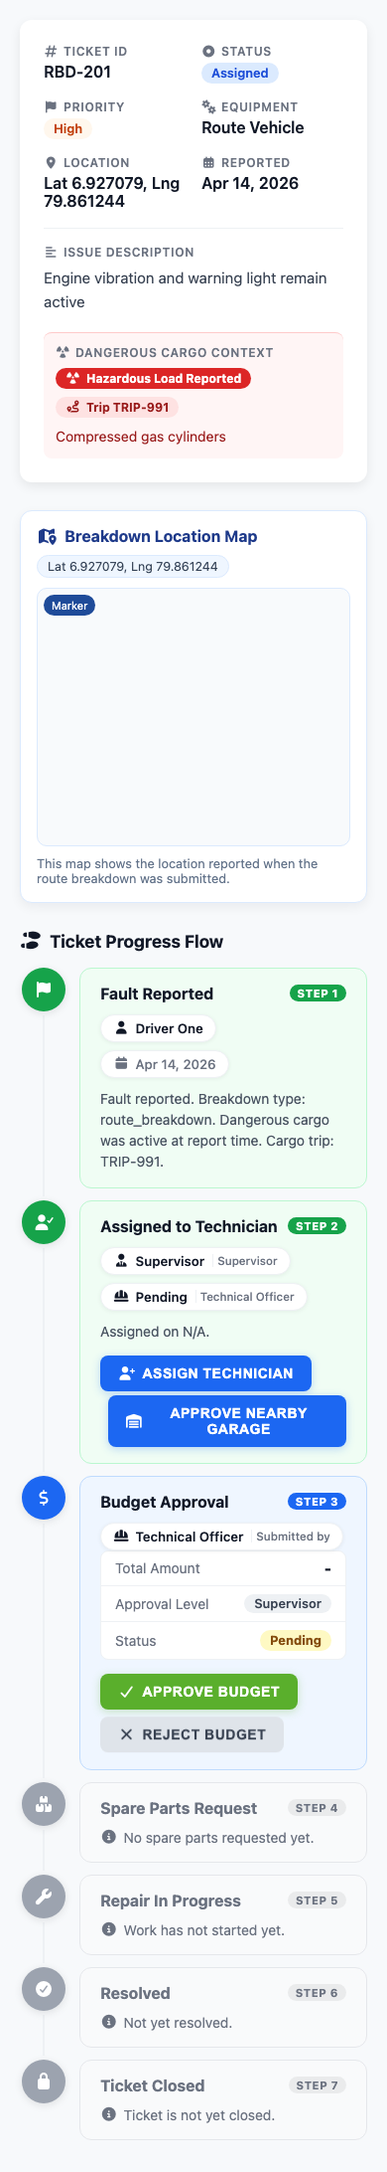
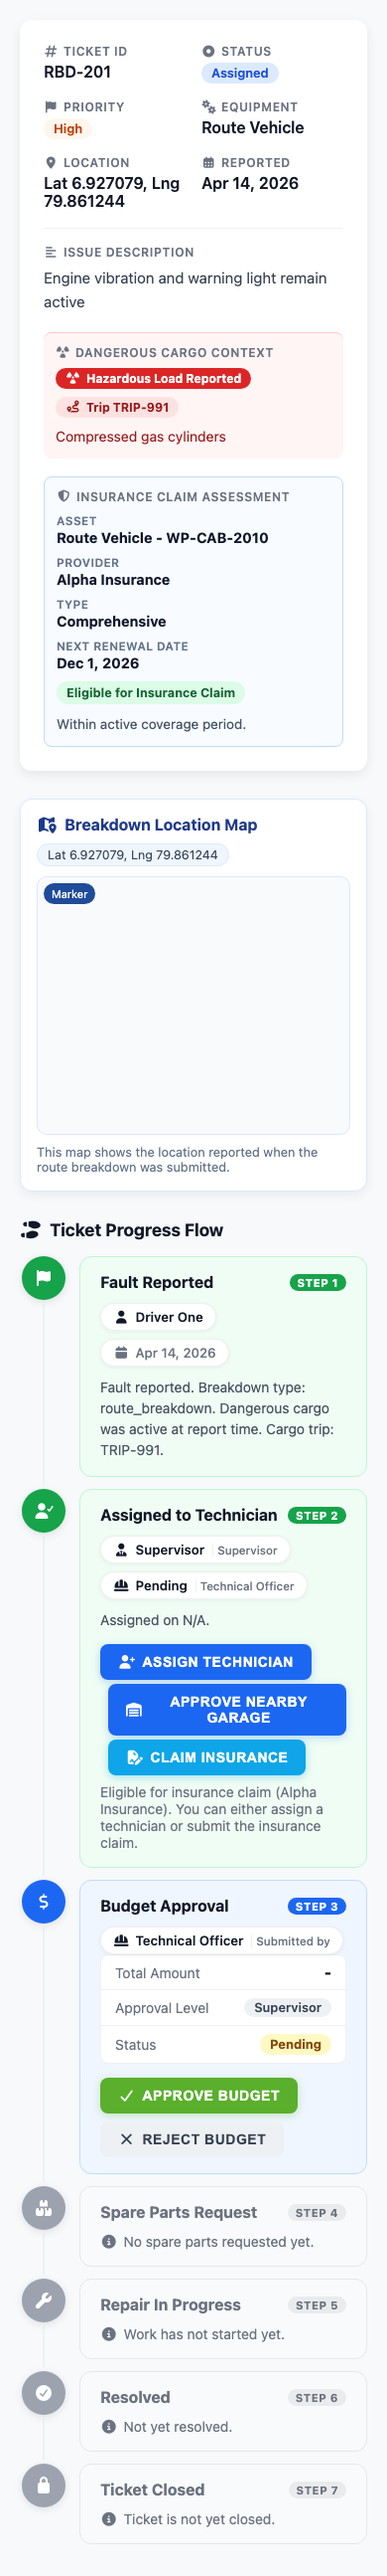
supervisor-tickets: enrich route actions and distance-aware garage approval

diff --git a/pages/dashboard/supervisor/components/page-modals/garage-approval-modal/script.js b/pages/dashboard/supervisor/components/page-modals/garage-approval-modal/script.js
@@ -137,12 +137,14 @@ class SupervisorGarageApprovalModal extends HTMLElement {
     renderMeta() {
         const meta = this.querySelector('#garageApprovalMeta');
         const breakdown = this.currentBreakdown || {};
+        const locationLabel = String(breakdown.breakdown_location || breakdown.location || '').trim();
 
         meta.innerHTML = `
             <div style="background:#f8fafc; border:1px solid #dbeafe; border-radius:8px; padding:12px;">
                 <div><strong>Route Breakdown:</strong> ${breakdown.breakdownId || breakdown.route_breakdown_id || `RBD-${breakdown.id}`}</div>
                 <div><strong>Vehicle:</strong> ${breakdown.identifier || breakdown.number_plate || `Vehicle #${breakdown.vehicle_id || 'N/A'}`}</div>
                 <div><strong>Driver:</strong> ${breakdown.reportedBy || breakdown.driver_name || 'N/A'}</div>
+                ${locationLabel ? `<div><strong>Reported Location:</strong> ${locationLabel}</div>` : ''}
                 ${breakdown.description ? `<div><strong>Description:</strong> ${breakdown.description}</div>` : ''}
             </div>
         `;
@@ -154,9 +156,11 @@ class SupervisorGarageApprovalModal extends HTMLElement {
 
         try {
             const response = await API.get('/garages');
-            this.garages = Array.isArray(response?.data?.garages)
+            const rawGarages = Array.isArray(response?.data?.garages)
                 ? response.data.garages
                 : (Array.isArray(response?.data) ? response.data : []);
+
+            this.garages = this.rankGaragesByDistance(rawGarages, this.getDriverCoordinates());
 
             if (!this.garages.length) {
                 select.innerHTML = '<option value="">No garages available</option>';
@@ -173,7 +177,7 @@ class SupervisorGarageApprovalModal extends HTMLElement {
                 <option value="">Select a garage</option>
                 ${this.garages.map((garage) => `
                     <option value="${garage.id}" ${preselectedId === Number(garage.id) ? 'selected' : ''}>
-                        ${garage.name} - ${garage.address}
+                        ${garage.name} - ${garage.address}${garage.distance_km !== null ? ` (${this.formatDistanceKm(garage.distance_km)} away)` : ''}
                     </option>
                 `).join('')}
             `;
@@ -288,7 +292,10 @@ class SupervisorGarageApprovalModal extends HTMLElement {
                 weight: 2,
             }).addTo(this.map);
 
-            marker.bindPopup(`<strong>${garage.name || 'Garage'}</strong><br>${garage.address || 'Address not available'}`);
+            const distanceLabel = garage.distance_km !== null
+                ? `<br><span style="color:#475569;">Approx. ${this.formatDistanceKm(garage.distance_km)} from breakdown</span>`
+                : '';
+            marker.bindPopup(`<strong>${garage.name || 'Garage'}</strong><br>${garage.address || 'Address not available'}${distanceLabel}`);
             marker.on('click', () => {
                 const select = this.querySelector('#garageApprovalSelect');
                 if (select) {
@@ -322,7 +329,7 @@ class SupervisorGarageApprovalModal extends HTMLElement {
             } else if (!this.garageMarkers.length) {
                 hintEl.textContent = 'No garages with coordinates were found. Use the dropdown to select a garage.';
             } else {
-                hintEl.textContent = 'Click a garage marker or use the dropdown to select a garage for approval.';
+                hintEl.textContent = 'Garages are sorted by distance from the reported breakdown location. Click a marker or use the dropdown to select.';
             }
         }
 
@@ -355,14 +362,112 @@ class SupervisorGarageApprovalModal extends HTMLElement {
 
     getDriverCoordinates() {
         const source = this.currentBreakdown?.raw || this.currentBreakdown || {};
-        const latitude = Number(source.breakdown_latitude);
-        const longitude = Number(source.breakdown_longitude);
+        const directCoordinates = this.toCoordinatePair(source.breakdown_latitude, source.breakdown_longitude)
+            || this.toCoordinatePair(source.latitude, source.longitude)
+            || this.toCoordinatePair(this.currentBreakdown?.breakdown_latitude, this.currentBreakdown?.breakdown_longitude);
+
+        if (directCoordinates) {
+            return directCoordinates;
+        }
+
+        return this.parseCoordinatesFromText(source.breakdown_location)
+            || this.parseCoordinatesFromText(source.location)
+            || this.parseCoordinatesFromText(source.description)
+            || null;
+    }
+
+    toCoordinatePair(latitudeValue, longitudeValue) {
+        const latitude = Number(latitudeValue);
+        const longitude = Number(longitudeValue);
 
         if (!Number.isFinite(latitude) || !Number.isFinite(longitude)) {
             return null;
         }
 
+        if (latitude < -90 || latitude > 90 || longitude < -180 || longitude > 180) {
+            return null;
+        }
+
         return [latitude, longitude];
+    }
+
+    parseCoordinatesFromText(value) {
+        const text = String(value || '').trim();
+        if (!text) {
+            return null;
+        }
+
+        const labelledMatch = text.match(/lat(?:itude)?\s*[:=]?\s*(-?\d+(?:\.\d+)?)\s*[,|]\s*lng(?:itude)?\s*[:=]?\s*(-?\d+(?:\.\d+)?)/i);
+        if (labelledMatch) {
+            return this.toCoordinatePair(labelledMatch[1], labelledMatch[2]);
+        }
+
+        const coordinatePairMatch = text.match(/(-?\d{1,2}\.\d+)\s*,\s*(-?\d{1,3}\.\d+)/);
+        if (coordinatePairMatch) {
+            return this.toCoordinatePair(coordinatePairMatch[1], coordinatePairMatch[2]);
+        }
+
+        return null;
+    }
+
+    getGarageDistanceKm(garage, originCoordinates) {
+        if (!originCoordinates || !Array.isArray(originCoordinates)) {
+            return null;
+        }
+
+        const garageCoordinates = this.toCoordinatePair(garage.latitude, garage.longitude);
+        if (!garageCoordinates) {
+            return null;
+        }
+
+        const [originLatitude, originLongitude] = originCoordinates;
+        const [garageLatitude, garageLongitude] = garageCoordinates;
+
+        const toRadians = (degrees) => (degrees * Math.PI) / 180;
+        const earthRadiusKm = 6371;
+
+        const deltaLatitude = toRadians(garageLatitude - originLatitude);
+        const deltaLongitude = toRadians(garageLongitude - originLongitude);
+        const startLatitude = toRadians(originLatitude);
+        const endLatitude = toRadians(garageLatitude);
+
+        const a = Math.sin(deltaLatitude / 2) ** 2
+            + Math.cos(startLatitude) * Math.cos(endLatitude) * Math.sin(deltaLongitude / 2) ** 2;
+
+        const c = 2 * Math.atan2(Math.sqrt(a), Math.sqrt(1 - a));
+        return earthRadiusKm * c;
+    }
+
+    rankGaragesByDistance(garages, originCoordinates) {
+        const normalizedGarages = Array.isArray(garages) ? garages : [];
+
+        return normalizedGarages
+            .map((garage) => ({
+                ...garage,
+                distance_km: this.getGarageDistanceKm(garage, originCoordinates),
+            }))
+            .sort((first, second) => {
+                const firstDistance = Number.isFinite(first.distance_km) ? first.distance_km : Number.POSITIVE_INFINITY;
+                const secondDistance = Number.isFinite(second.distance_km) ? second.distance_km : Number.POSITIVE_INFINITY;
+
+                if (firstDistance !== secondDistance) {
+                    return firstDistance - secondDistance;
+                }
+
+                return String(first.name || '').localeCompare(String(second.name || ''));
+            });
+    }
+
+    formatDistanceKm(distanceKm) {
+        if (!Number.isFinite(distanceKm)) {
+            return 'N/A';
+        }
+
+        if (distanceKm < 1) {
+            return `${Math.max(50, Math.round(distanceKm * 1000))} m`;
+        }
+
+        return `${distanceKm.toFixed(1)} km`;
     }
 
     destroyMap() {

diff --git a/pages/dashboard/supervisor/components/fault-tickets/script.js b/pages/dashboard/supervisor/components/fault-tickets/script.js
@@ -50,7 +50,8 @@ class SupervisorFaultTickets extends HTMLElement {
                     action,
                     ticketId: this.parseNumber(actionButton.dataset.ticketId),
                     reportId: this.parseNumber(actionButton.dataset.reportId),
-                    reportType: actionButton.dataset.reportType || ''
+                    reportType: actionButton.dataset.reportType || '',
+                    routeBreakdownId: this.parseNumber(actionButton.dataset.routeBreakdownId)
                 }
             }));
             return;
@@ -293,7 +294,13 @@ class SupervisorFaultTickets extends HTMLElement {
         const dangerousCargoSummary = String(ticket.dangerous_cargo_summary || '').trim();
         const dangerousCargoTripId = String(ticket.dangerous_cargo_trip_id || '').trim();
         const routeGarageWorkflowStatus = String(ticket.route_garage_workflow_status || '').toLowerCase();
-        const hasGarageAssignment = isRouteBreakdown && ['garage_approved', 'garage_entry_logged', 'repair_in_progress', 'completed'].includes(routeGarageWorkflowStatus);
+        const routeApprovedGarageId = Number(ticket.route_approved_garage_id || ticket.approved_garage_id || 0);
+        const hasGarageAssignment = isRouteBreakdown && (
+            ['garage_approved', 'garage_entry_logged', 'repair_in_progress', 'completed'].includes(routeGarageWorkflowStatus)
+            || routeApprovedGarageId > 0
+        );
+        const canApproveGarage = this.canApproveRouteGarage(ticket, hasGarageAssignment);
+        const routeBreakdownNumericId = Number(ticket.route_breakdown_numeric_id || 0);
         const assetName = ticket.machine_model_number || ticket.machine_name || `Machine #${ticket.machine_id}`;
         const reporterName = ticket.reported_by_name || ticket.reporter_full_name || 'Unknown';
         const createdDate = new Date(ticket.created_at);
@@ -317,6 +324,11 @@ class SupervisorFaultTickets extends HTMLElement {
             : `<button class="dropdown-item" type="button" data-action="assign-ticket" data-ticket-id="${Number(ticket.id)}">
                                     <i class="fas fa-user-plus"></i> Assign Technician
                                 </button>`;
+        const approveGarageActionHtml = canApproveGarage
+            ? `<button class="dropdown-item" type="button" data-action="approve-garage" data-ticket-id="${Number(ticket.id)}" data-route-breakdown-id="${routeBreakdownNumericId > 0 ? routeBreakdownNumericId : ''}">
+                                    <i class="fas fa-warehouse"></i> Approve Nearby Garage
+                                </button>`
+            : '';
         const garageHintHtml = hasGarageAssignment
             ? `<div class="item-meta" style="margin-top:4px;color:#0f766e;font-weight:500;"><i class="fas fa-info-circle"></i> Technician assignment is not required after garage approval.</div>`
             : '';
@@ -356,6 +368,7 @@ class SupervisorFaultTickets extends HTMLElement {
                                 <i class="fas fa-ellipsis-v"></i>
                             </button>
                             <div class="dropdown-menu" id="dropdown-${this.escapeHtml(dropdownId)}">
+                                ${approveGarageActionHtml}
                                 ${assignActionHtml}
                                 ${!isMachineBreakdown ? `
                                 <button class="dropdown-item" type="button" data-action="edit-ticket" data-ticket-id="${Number(ticket.id)}">
@@ -380,7 +393,13 @@ class SupervisorFaultTickets extends HTMLElement {
         const dangerousCargoSummary = String(ticket.dangerous_cargo_summary || '').trim();
         const dangerousCargoTripId = String(ticket.dangerous_cargo_trip_id || '').trim();
         const routeGarageWorkflowStatus = String(ticket.route_garage_workflow_status || '').toLowerCase();
-        const hasGarageAssignment = isRouteBreakdown && ['garage_approved', 'garage_entry_logged', 'repair_in_progress', 'completed'].includes(routeGarageWorkflowStatus);
+        const routeApprovedGarageId = Number(ticket.route_approved_garage_id || ticket.approved_garage_id || 0);
+        const hasGarageAssignment = isRouteBreakdown && (
+            ['garage_approved', 'garage_entry_logged', 'repair_in_progress', 'completed'].includes(routeGarageWorkflowStatus)
+            || routeApprovedGarageId > 0
+        );
+        const canApproveGarage = this.canApproveRouteGarage(ticket, hasGarageAssignment);
+        const routeBreakdownNumericId = Number(ticket.route_breakdown_numeric_id || 0);
         const assignedTo = ticket.assignments && ticket.assignments.length > 0
             ? ticket.assignments.map(a => a.technician_name).join(', ')
             : (hasGarageAssignment ? (ticket.route_approved_garage_name || 'Nearby Garage') : 'Unassigned');
@@ -396,6 +415,11 @@ class SupervisorFaultTickets extends HTMLElement {
             ? ticket.breakdown_report_id
             : (ticket.ticket_id || ('MBD-' + String(ticket.id).padStart(3, '0')));
         const dropdownId = `active-${ticket.id}`;
+        const approveGarageActionHtml = canApproveGarage
+            ? `<button class="dropdown-item" type="button" data-action="approve-garage" data-ticket-id="${Number(ticket.id)}" data-route-breakdown-id="${routeBreakdownNumericId > 0 ? routeBreakdownNumericId : ''}">
+                                    <i class="fas fa-warehouse"></i> Approve Nearby Garage
+                                </button>`
+            : '';
         const dangerousBadge = dangerousCargoPresent
             ? '<span class="dangerous-cargo-chip" style="font-size: 10px; background: #dc2626; color: white; padding: 1px 6px; border-radius: 4px; margin-left: 6px;"><i class="fas fa-radiation"></i> Dangerous Cargo</span>'
             : '';
@@ -432,6 +456,7 @@ class SupervisorFaultTickets extends HTMLElement {
                                 <i class="fas fa-ellipsis-v"></i>
                             </button>
                             <div class="dropdown-menu" id="dropdown-${this.escapeHtml(dropdownId)}">
+                                ${approveGarageActionHtml}
                                 ${hasGarageAssignment ? '' : `<button class="dropdown-item" type="button" data-action="edit-assignment" data-ticket-id="${Number(ticket.id)}">
                                     <i class="fas fa-edit"></i> Edit Assignment
                                 </button>
@@ -517,6 +542,23 @@ class SupervisorFaultTickets extends HTMLElement {
 
     refresh() {
         // Parent script controls data loading. This keeps API parity with other section components.
+    }
+
+    canApproveRouteGarage(ticket, hasGarageAssignment) {
+        if (!ticket || String(ticket.breakdown_type || '').toLowerCase() !== 'route_breakdown') {
+            return false;
+        }
+
+        if (hasGarageAssignment) {
+            return false;
+        }
+
+        const normalizedStatus = String(ticket.status || '').toLowerCase();
+        if (normalizedStatus === 'resolved' || normalizedStatus === 'closed' || normalizedStatus === 'insurance claimed') {
+            return false;
+        }
+
+        return true;
     }
 
     render() {

diff --git a/testing/ui-validation/supervisor-fault-ticket-tracking/validate-supervisor-fault-ticket-tracking.spec.js b/testing/ui-validation/supervisor-fault-ticket-tracking/validate-supervisor-fault-ticket-tracking.spec.js
@@ -134,6 +134,20 @@ function buildFixtures() {
                 longitude: 79.8683,
                 is_active: 1,
             },
+        ],
+        technicians: [
+            {
+                id: 41,
+                full_name: 'Technician Alpha',
+                technical_expertise: 'Engine Systems',
+                active_ticket_count: 1,
+            },
+            {
+                id: 42,
+                full_name: 'Technician Bravo',
+                technical_expertise: 'Electrical Diagnostics',
+                active_ticket_count: 3,
+            },
         ]
     };
 }
@@ -385,6 +399,14 @@ async function mockApi(page, fixtures) {
                         priority: 'High',
                         location: 'Lat 6.927079, Lng 79.861244',
                         description: 'Engine vibration and warning light remain active',
+                        insurance_claim: {
+                            asset_label: 'Route Vehicle - WP-CAB-2010',
+                            insurance_provider: 'Alpha Insurance',
+                            insurance_type: 'Comprehensive',
+                            next_insurance_renew_date: '2026-12-01',
+                            eligibility_reason: 'Within active coverage period.',
+                            eligible: true
+                        },
                         machine_id: null,
                         machine_name: 'Route Vehicle',
                         reporter_full_name: 'Driver One',
@@ -427,6 +449,17 @@ async function mockApi(page, fixtures) {
 
         if (pathname.endsWith('/api/fault-tickets') && method === 'GET') {
             return json(route, { status: 'success', success: true, data: { tickets: [] } });
+        }
+
+        if (pathname.endsWith('/api/technicians') && method === 'GET') {
+            return json(route, {
+                status: 'success',
+                success: true,
+                data: {
+                    users: fixtures.technicians,
+                    count: fixtures.technicians.length,
+                }
+            });
         }
 
         if (pathname.endsWith('/api/garages') && method === 'GET') {
@@ -598,12 +631,21 @@ async function runFlow(page, viewportName) {
     await expect(page.locator('#routeLocationPanel')).toBeVisible({ timeout: 15000 });
     await expect(page.locator('#routeLocationMap')).toBeVisible({ timeout: 15000 });
     await expect(page.locator('#routeLocationHint')).toContainText('map', { timeout: 15000 });
+    await expect(page.locator('#assignTicketBtn')).toBeVisible({ timeout: 15000 });
+    await expect(page.locator('#claimInsuranceBtn')).toBeVisible({ timeout: 15000 });
     await expect(page.locator('#approveGarageBtn')).toBeVisible({ timeout: 15000 });
     await expect(page.locator('#ovInsurancePanel')).toBeVisible({ timeout: 15000 });
     await expect(page.locator('#ovInsuranceProvider')).toContainText('Transit Assurance Ltd');
     await expect(page.locator('#ovWarrantyProvider')).toContainText('Fleet Warranty Ltd');
     await expect(page.locator('#ovInsuranceEligibility')).toContainText('Not Eligible for Insurance Claim');
 
+
+    await page.locator('#assignTicketBtn').click();
+    await expect(page.locator('#assignModal')).toBeVisible({ timeout: 10000 });
+    await expect(page.locator('#assignTechniciansList .assign-tech-item')).toHaveCount(2, { timeout: 10000 });
+    await expect(page.locator('#assignExpectedCompletion')).toBeVisible({ timeout: 10000 });
+    await page.locator('#assignModal .modal-close').click();
+    await expect(page.locator('#assignModal')).not.toBeVisible({ timeout: 10000 });
 
     await page.locator('#approveGarageBtn').click();
     await expect(page.locator('#garageApprovalModal')).toBeVisible({ timeout: 10000 });

diff --git a/pages/dashboard/supervisor/components/fault-ticket-tracking/script.js b/pages/dashboard/supervisor/components/fault-ticket-tracking/script.js
@@ -568,6 +568,9 @@ class SupervisorFaultTicketTracking extends HTMLElement {
         const dangerousBadgeHtml = dangerousCargoPresent
             ? '<span class="dangerous-cargo-chip" style="font-size: 10px; background: #dc2626; color: white; padding: 1px 6px; border-radius: 4px; margin-left: 6px;"><i class="fas fa-radiation"></i> Dangerous Cargo</span>'
             : '';
+        const approvedGarageHtml = breakdown.reportType === 'route_breakdown' && breakdown.approvedGarageName
+            ? `<div class="item-meta" style="margin-top:4px;"><i class="fas fa-warehouse" style="color:#0f766e;"></i> <span style="color:#0f766e;font-weight:600;">Nearby Garage: ${this.escapeHtml(breakdown.approvedGarageName)}</span></div>`
+            : '';
         const routeDetailsHtml = isVehicleSource
             ? `<div class="item-meta" style="margin-top:6px;display:flex;gap:8px;flex-wrap:wrap;">
                 <span class="status-text status-normal"><i class="fas fa-tools"></i> ${this.escapeHtml(breakdown.type || 'Route Breakdown')}</span>
@@ -587,6 +590,7 @@ class SupervisorFaultTicketTracking extends HTMLElement {
                     </div>
                     <div class="item-description">${this.escapeHtml(breakdown.description || 'No description provided.')}</div>
                     ${routeDetailsHtml}
+                    ${approvedGarageHtml}
                     <div class="item-meta" style="margin-top:6px;">
                         <span class="status-text ${statusInfo.className}">${this.escapeHtml(statusInfo.label)}</span> &nbsp;|&nbsp;
                         <span class="status-text ${severityInfo.className}">${this.escapeHtml(severityInfo.label)}</span> &nbsp;|&nbsp;
